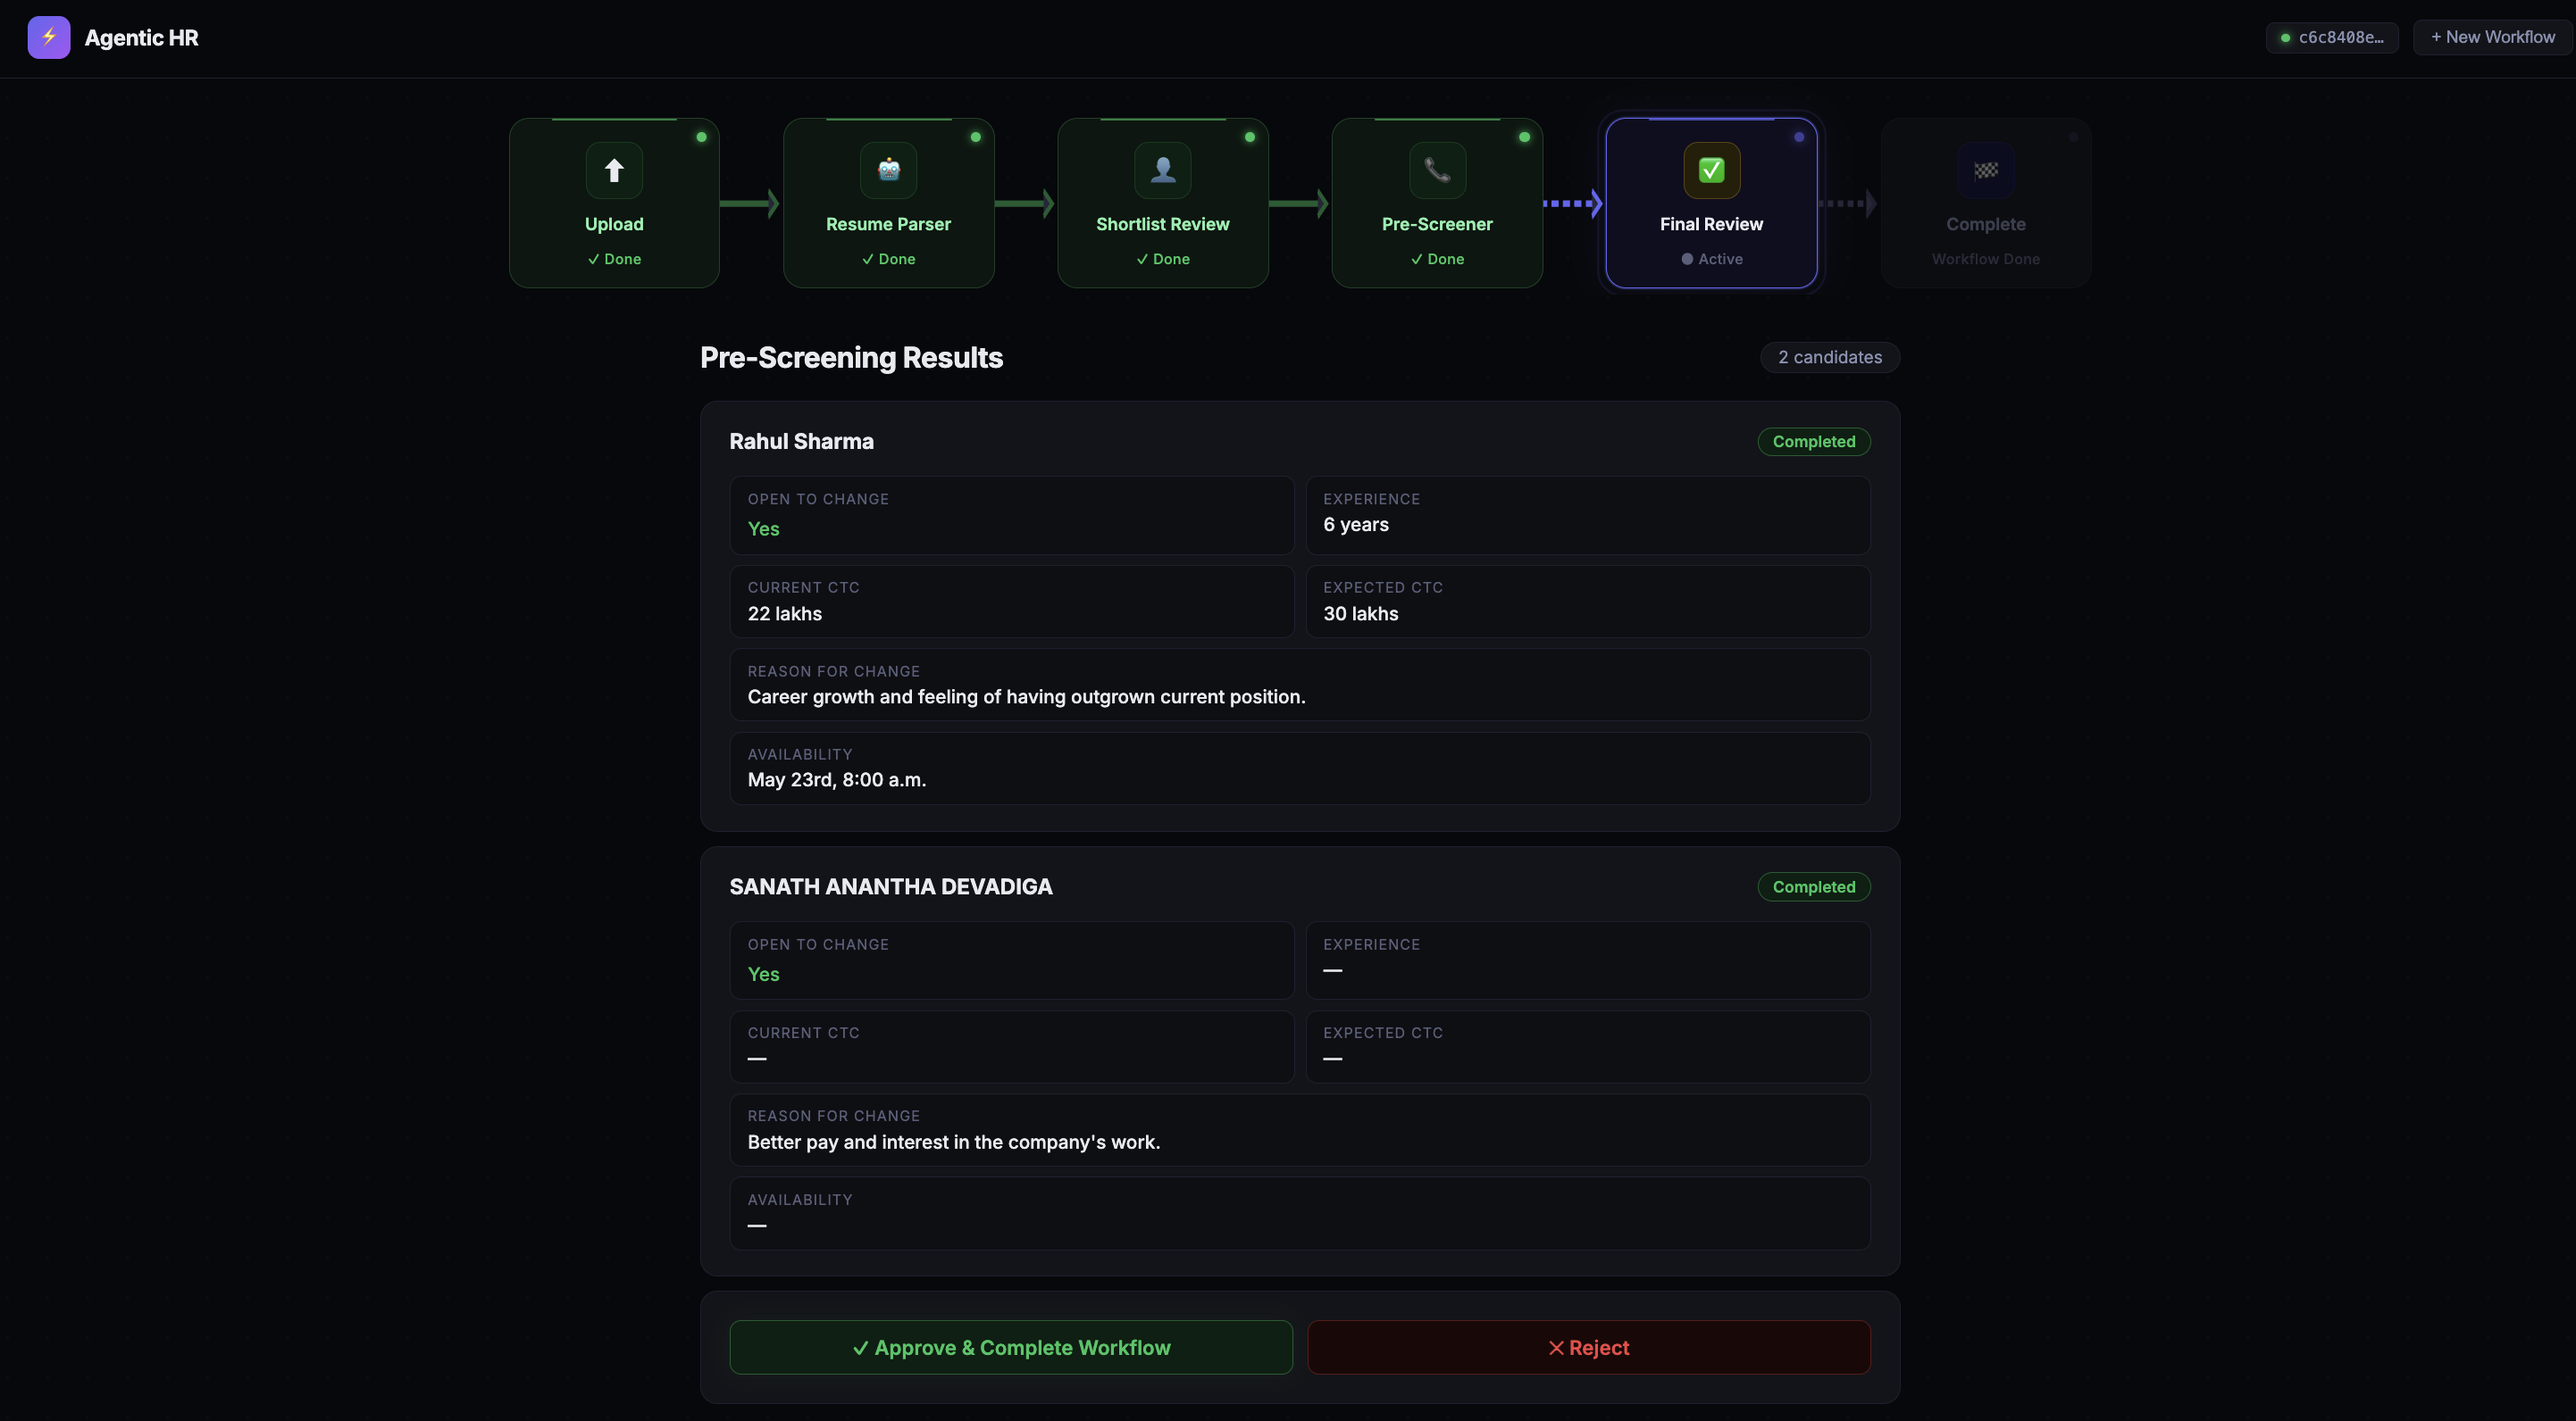
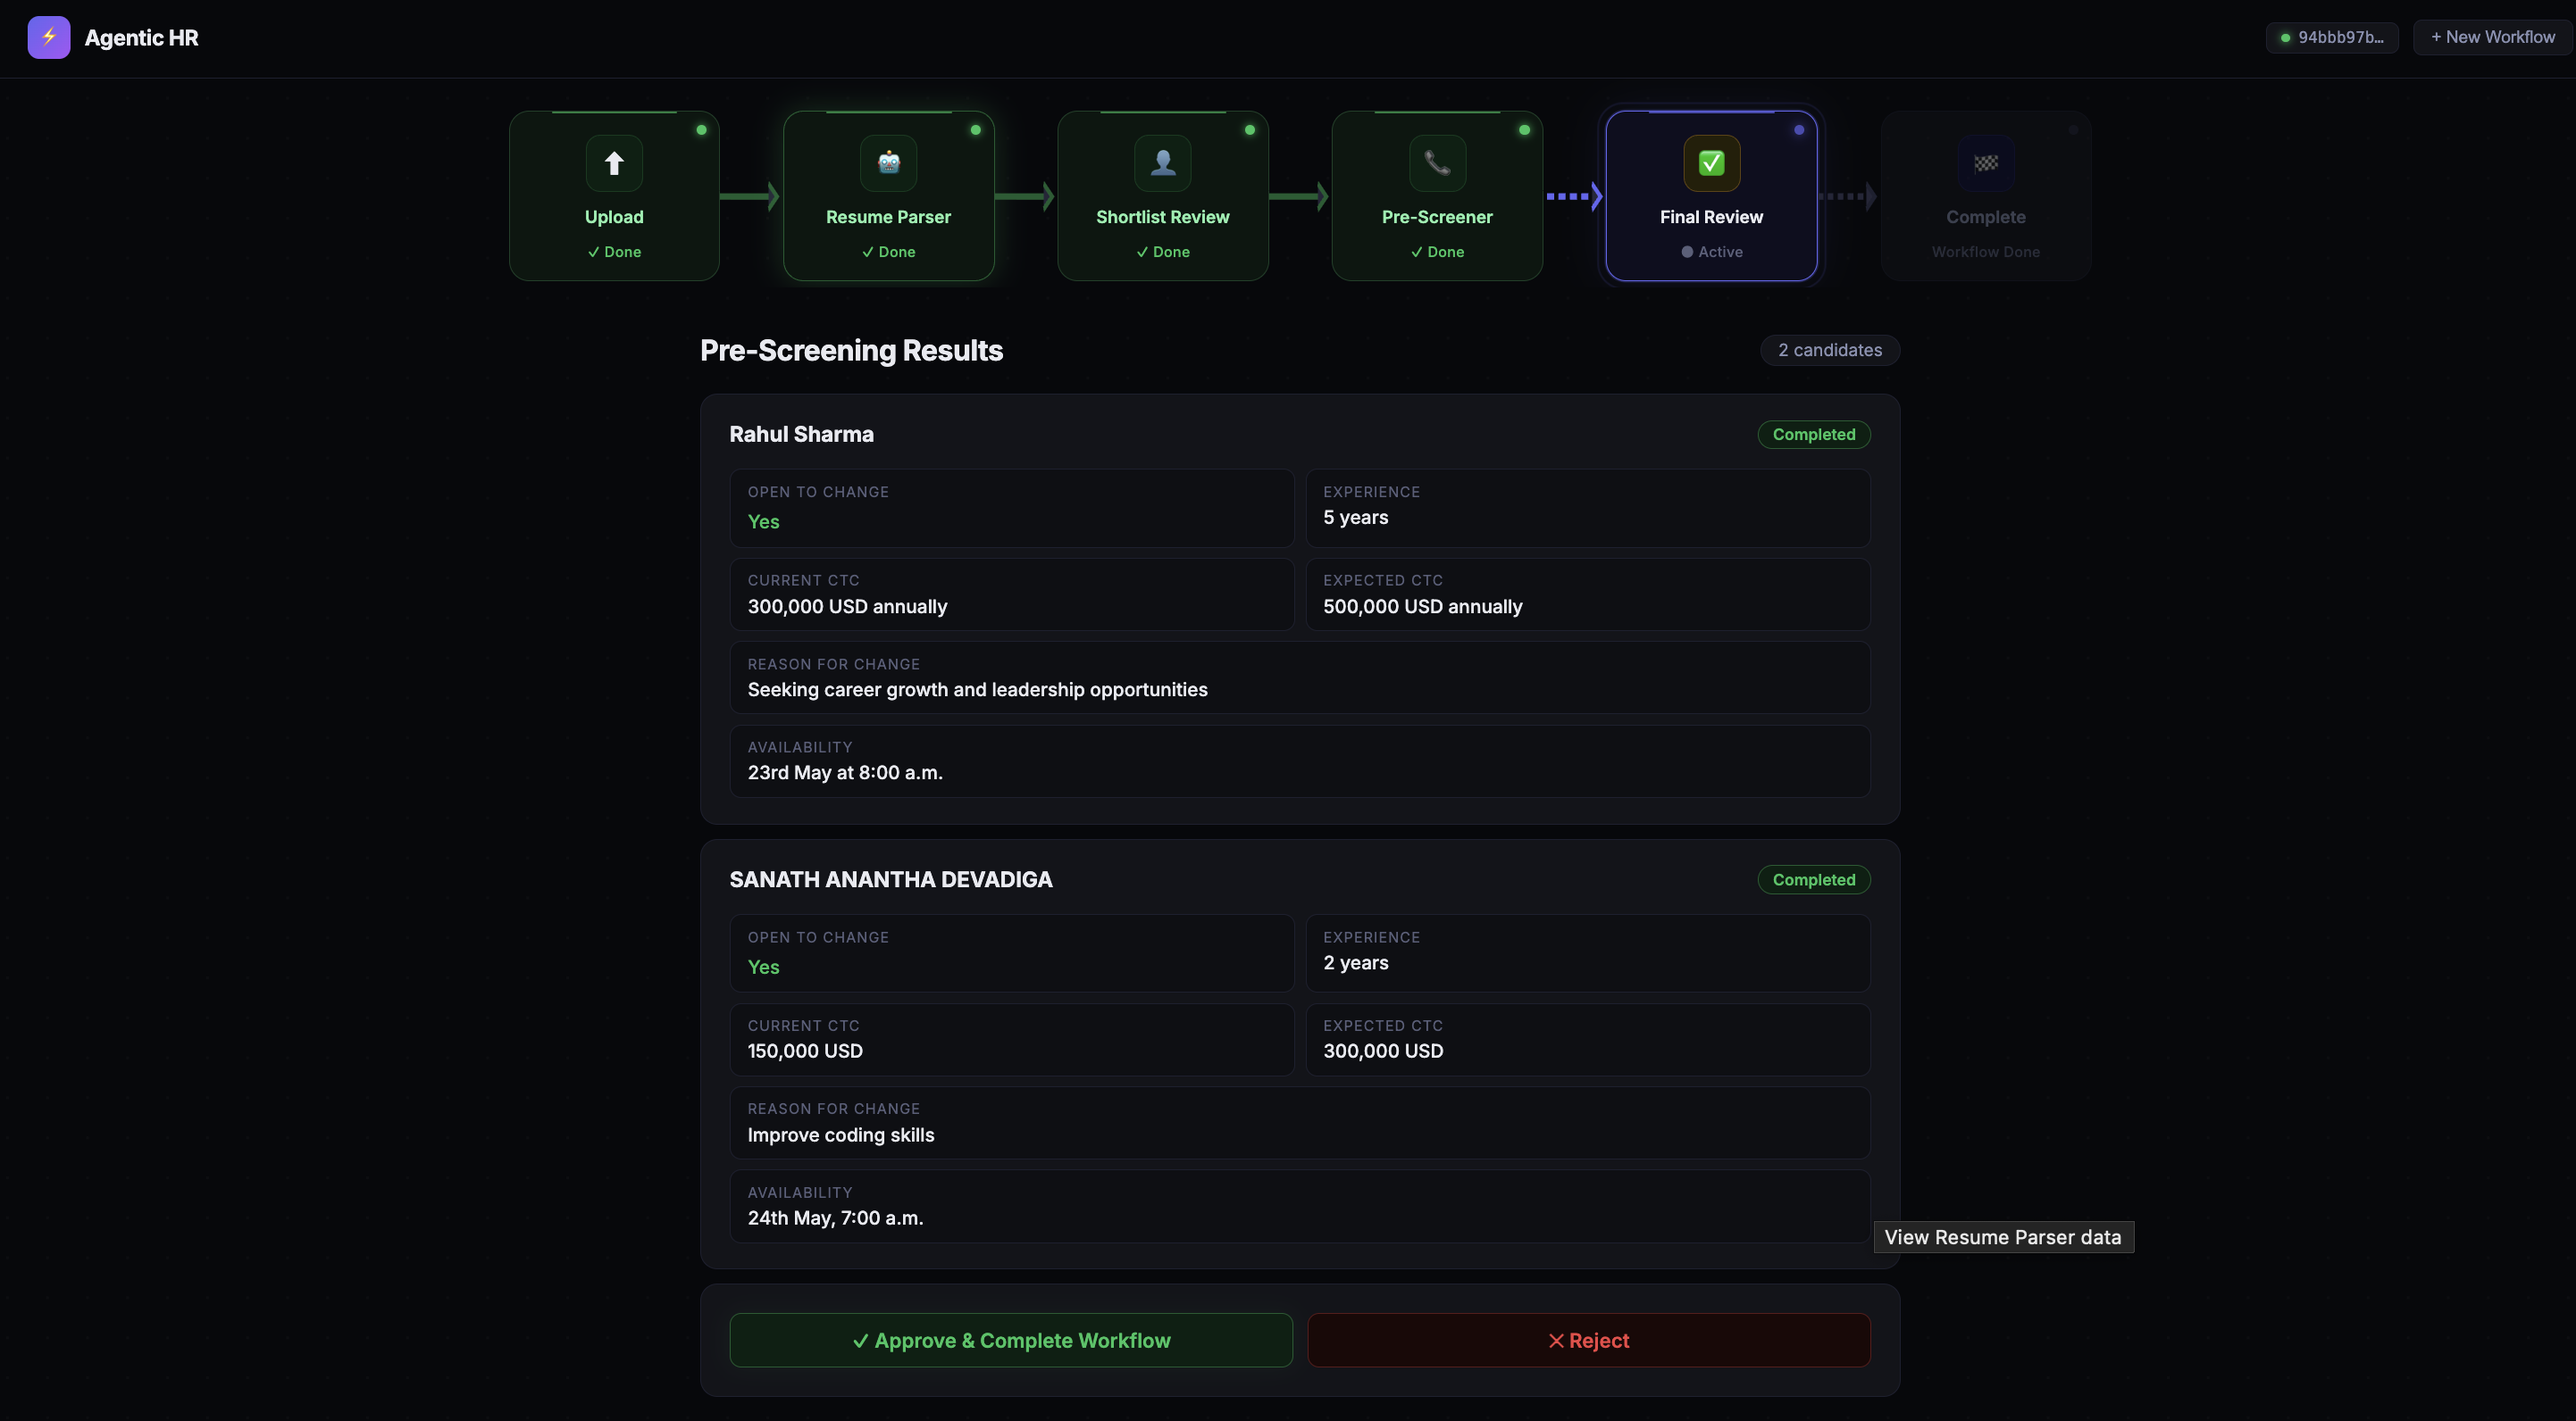
fixed twillio timeout issues

diff --git a/voice/conversation.py b/voice/conversation.py
@@ -1,6 +1,8 @@
 """
 Voice conversation state machine for pre-screening calls.
 """
+import asyncio
+from functools import partial
 from urllib.parse import quote, urlencode
 from tools.llm_tools import llm_generate_call_response
 from voice.tts import get_audio_url
@@ -36,12 +38,12 @@ async def handle_call_start(call_sid: str, candidate_name: str, session_id: str)
     logger.info("call_start", call_sid=call_sid, candidate=candidate_name)
 
     gather_url   = _action_url("/api/webhooks/twilio/gather",    call_sid=call_sid, session_id=session_id, candidate_name=candidate_name)
-    no_input_url = _action_url("/api/webhooks/twilio/no-speech", call_sid=call_sid, session_id=session_id, candidate_name=candidate_name)
+    no_input_url = _action_url("/api/webhooks/twilio/no-speech", call_sid=call_sid, session_id=session_id, candidate_name=candidate_name, retries=0)
 
     return (
         '<?xml version="1.0" encoding="UTF-8"?>'
         "<Response>"
-        f'<Gather input="speech" action="{gather_url}" method="POST" speechTimeout="3" timeout="15" actionOnEmptyResult="true">'
+        f'<Gather input="speech" action="{gather_url}" method="POST" speechTimeout="auto" timeout="15" actionOnEmptyResult="true">'
         f'<Say voice="alice">{_xml_text(greeting)}</Say>'
         "</Gather>"
         f'<Redirect method="POST">{no_input_url}</Redirect>'
@@ -66,10 +68,15 @@ async def handle_speech_input(
     conversation    = call_doc.get("conversation", [])
     screening_data  = call_doc.get("screening_data", {})
 
-    result          = llm_generate_call_response(
-        candidate_name=candidate_name,
-        conversation_history=conversation,
-        screening_data=screening_data,
+    loop   = asyncio.get_event_loop()
+    result = await loop.run_in_executor(
+        None,
+        partial(
+            llm_generate_call_response,
+            candidate_name=candidate_name,
+            conversation_history=conversation,
+            screening_data=screening_data,
+        ),
     )
 
     reply: str          = result.get("reply", "Thank you for your time. Goodbye!")
@@ -94,22 +101,43 @@ async def handle_speech_input(
     return await _build_gather_twiml(reply, call_sid, session_id, candidate_name)
 
 
-async def handle_no_speech(call_sid: str, candidate_name: str, session_id: str) -> str:
-    logger.info("no_speech_detected", call_sid=call_sid)
+MAX_NO_SPEECH_RETRIES = 2
+
+async def handle_no_speech(
+    call_sid: str, candidate_name: str, session_id: str, retries: int = 0
+) -> str:
+    logger.info("no_speech_detected", call_sid=call_sid, retries=retries)
+
+    if retries < MAX_NO_SPEECH_RETRIES:
+        # Retry: ask the candidate to speak again
+        prompt = "I'm sorry, I didn't catch that. Could you please say that again?"
+        gather_url   = _action_url("/api/webhooks/twilio/gather",    call_sid=call_sid, session_id=session_id, candidate_name=candidate_name)
+        no_input_url = _action_url("/api/webhooks/twilio/no-speech", call_sid=call_sid, session_id=session_id, candidate_name=candidate_name, retries=retries + 1)
+        return (
+            '<?xml version="1.0" encoding="UTF-8"?>'
+            "<Response>"
+            f'<Gather input="speech" action="{gather_url}" method="POST" speechTimeout="auto" timeout="15" actionOnEmptyResult="true">'
+            f'<Say voice="alice">{_xml_text(prompt)}</Say>'
+            "</Gather>"
+            f'<Redirect method="POST">{no_input_url}</Redirect>'
+            "</Response>"
+        )
+
+    # Max retries exhausted — hang up
+    logger.info("no_speech_max_retries", call_sid=call_sid)
     await db.update_call_record(call_sid, {"status": "no_answer"})
-    return _hangup_twiml("I'm sorry, I couldn't hear you. I'll try reaching out again. Goodbye!")
+    return _hangup_twiml("I'm sorry, I'm having trouble hearing you. I'll try reaching out again. Goodbye!")
 
 
 async def _build_gather_twiml(text: str, call_sid: str, session_id: str, candidate_name: str) -> str:
-    audio_url    = await get_audio_url(text, _settings.public_base_url)
     gather_url   = _action_url("/api/webhooks/twilio/gather",    call_sid=call_sid, session_id=session_id, candidate_name=candidate_name)
-    no_input_url = _action_url("/api/webhooks/twilio/no-speech", call_sid=call_sid, session_id=session_id, candidate_name=candidate_name)
+    no_input_url = _action_url("/api/webhooks/twilio/no-speech", call_sid=call_sid, session_id=session_id, candidate_name=candidate_name, retries=0)
 
     return (
         '<?xml version="1.0" encoding="UTF-8"?>'
         "<Response>"
-        f'<Gather input="speech" action="{gather_url}" method="POST" speechTimeout="3" timeout="10" actionOnEmptyResult="true">'
-        f"<Play>{audio_url}</Play>"
+        f'<Gather input="speech" action="{gather_url}" method="POST" speechTimeout="auto" timeout="10" actionOnEmptyResult="true">'
+        f'<Say voice="alice">{_xml_text(text)}</Say>'
         "</Gather>"
         f'<Redirect method="POST">{no_input_url}</Redirect>'
         "</Response>"

diff --git a/api/endpoints/webhooks.py b/api/endpoints/webhooks.py
@@ -75,7 +75,7 @@ async def twilio_gather(
     )
 
     if not SpeechResult:
-        twiml = await handle_no_speech(call_sid, candidate_name, session_id)
+        twiml = await handle_no_speech(call_sid, candidate_name, session_id, retries=0)
     else:
         twiml = await handle_speech_input(call_sid, candidate_name, session_id, SpeechResult)
 
@@ -88,10 +88,11 @@ async def twilio_no_speech(
     call_sid: str = Query(...),
     session_id: str = Query(...),
     candidate_name: str = Query(...),
+    retries: int = Query(default=0),
 ):
     """Called when <Gather> redirect fires with no speech input."""
-    logger.info("twilio_no_speech", call_sid=call_sid, session_id=session_id)
-    twiml = await handle_no_speech(call_sid, candidate_name, session_id)
+    logger.info("twilio_no_speech", call_sid=call_sid, session_id=session_id, retries=retries)
+    twiml = await handle_no_speech(call_sid, candidate_name, session_id, retries=retries)
     return Response(content=twiml, media_type=TWIML_CONTENT_TYPE)
 
 

diff --git a/agents/pre_screener.py b/agents/pre_screener.py
@@ -39,6 +39,7 @@ class PreScreenerAgent(BaseAgent):
                 call_sids.append(sid)
             # Block until this call finishes before dialling the next one
             await self._wait_for_one_call(session_id, candidate["candidate_id"])
+            await asyncio.sleep(3)  # brief pause so webhooks drain before next call
 
         # ── Step 2: Build final results from completed call records ───────
         call_docs = await db.get_session_calls(session_id)
